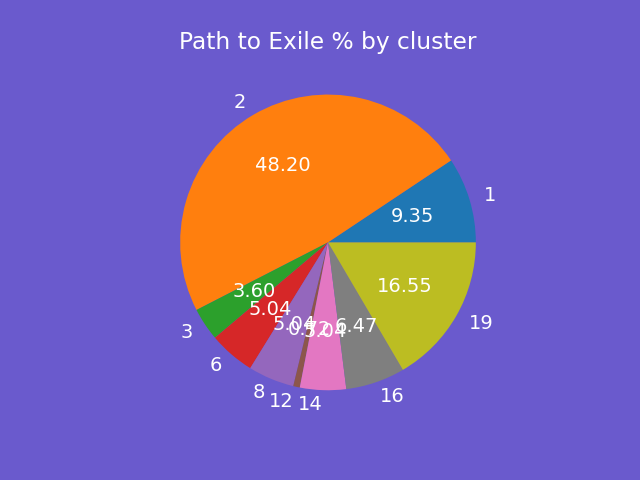
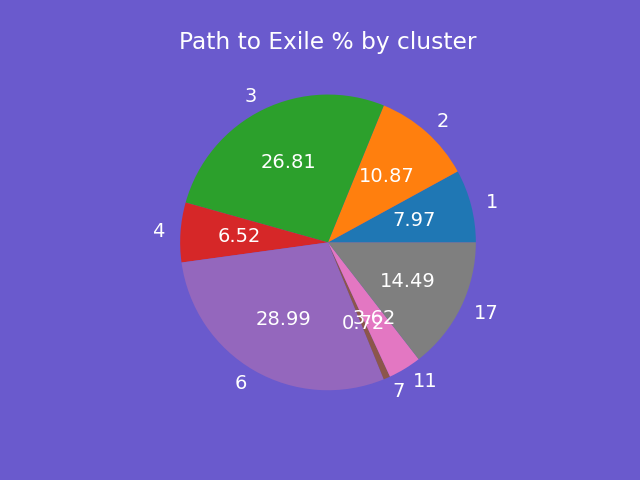
attempt smart naming

Changed region(s): [[0.25, 0.1875, 0.7812, 0.875], [0.75, 0.375, 0.7812, 0.4375], [0.3125, 0.75, 0.3438, 0.7812]]

diff --git a/metagame.py b/metagame.py
@@ -24,6 +24,7 @@ for deck in decks_json:
             decks.append(cards_in_deck)
     except Exception as e:
         print(e)
+        decks_json.remove(deck)
 
 
 def card_names(_deck):
@@ -76,7 +77,22 @@ for LABEL in range(NUM_CLUSTERS):
     for deck, label in decks_by_label(LABEL):
         label_set.intersection(set(most_common_cards(deck, 40)))
     label_set = set(label_set)
-    print("Cluster number {}:".format(LABEL))
+
+    cluster_name = 'Unknown'
+    x = 0
+    for deck in decks_json:
+        y = 0
+        try:
+            for card in deck['main']:
+                if str(card['name']).replace("'", "\\'") in label_set:
+                    y += 1
+            if y > x:
+                x = y
+                cluster_name = str(deck['name'])
+        except Exception as e:
+            print(e)
+
+    print("Cluster # {} (" + cluster_name + ") :".format(LABEL))
     print(label_set)
     print("\n")
 
@@ -129,12 +145,10 @@ for card in versatile_cards(30):
 
 # cards to analyze
 cards_to_analyze = ['Thoughtseize', 'Llanowar Elves', 'Scalding Tarn', 'Serum Visions']
+
 print("\nCards commonly found with " + cards_to_analyze[0] + "\n" + str(closest_cards(cards_to_analyze[0], 10)))
-
 print("\nCards commonly found with " + cards_to_analyze[1] + "\n" + str(closest_cards(cards_to_analyze[1], 10)))
-
 print("\nApparition ratio for " + cards_to_analyze[2] + "\n" + str(apparition_ratio(cards_to_analyze[2])))
-
 print("\nApparition ratio for " + cards_to_analyze[3] + "\n" + str(apparition_ratio(cards_to_analyze[3])))
 
 # graph data
@@ -166,7 +180,7 @@ for card_name in card_names:
             label_list.pop(i)
         else:
             i += 1
-    pie(df, labels=label_list, autopct=lambda i: "{0:.2f}".format(float(i)))
+    pie(df, labels=label_list, autopct=lambda i: "{0:.2f}".format(float(i)), normalize=False)
     plt.title(card_name + " % by cluster")
     plt.savefig('graphs/' + card_name + '_distribution')
     show()
